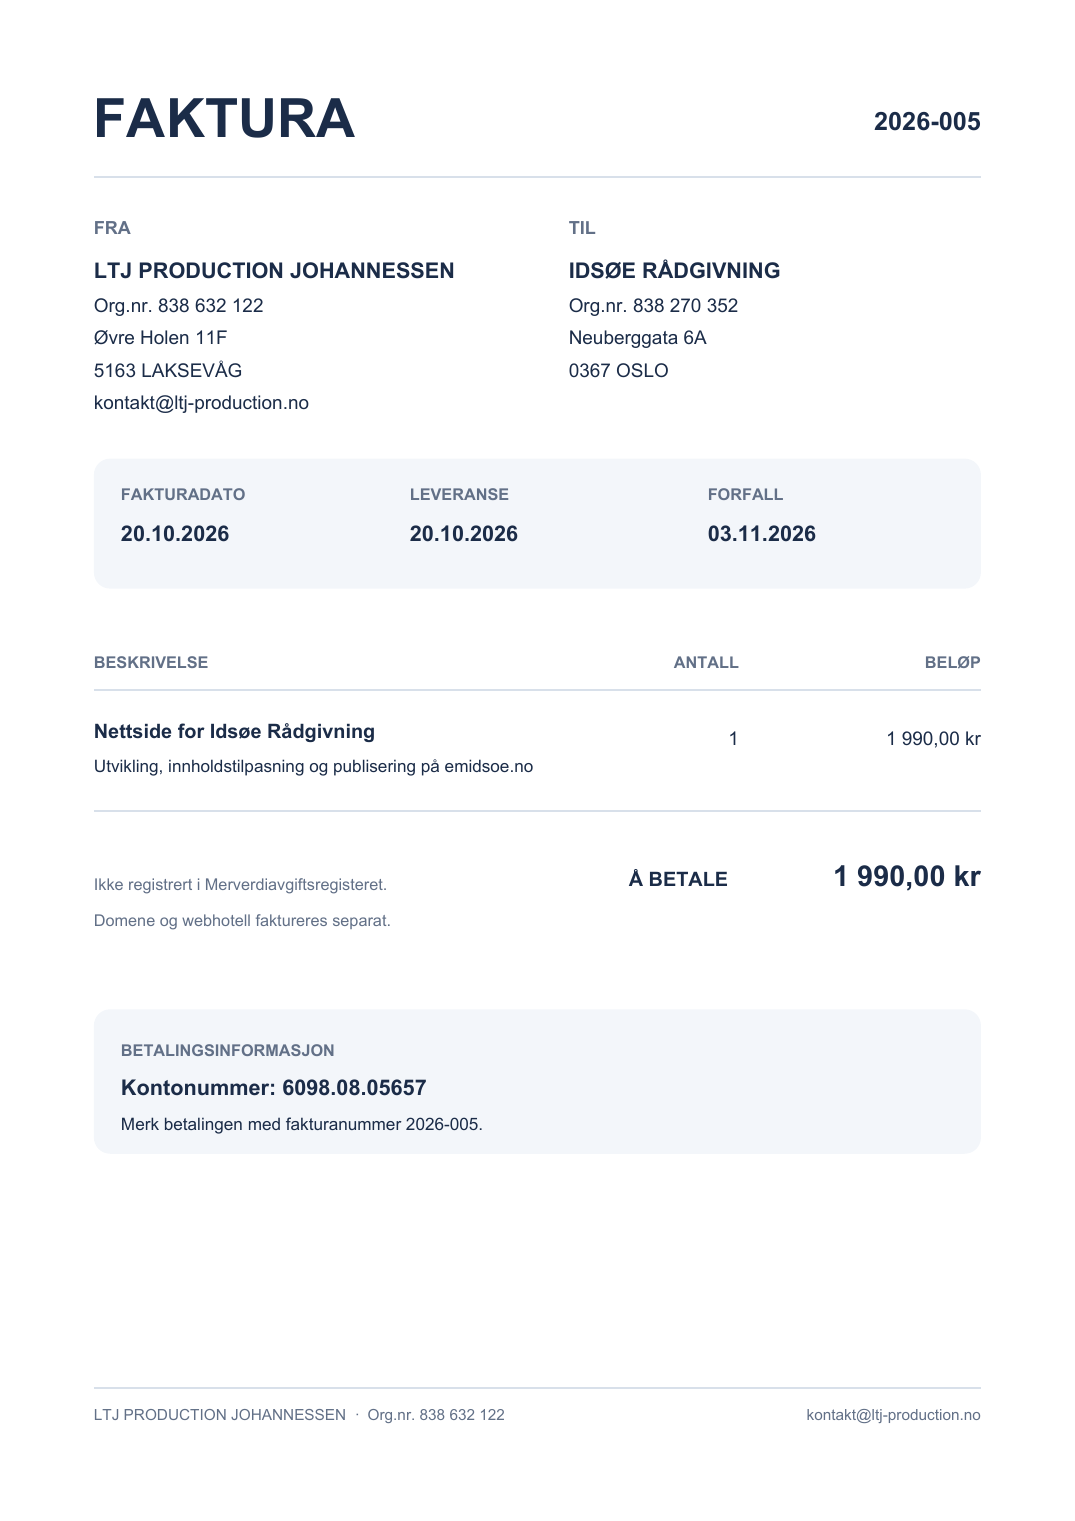
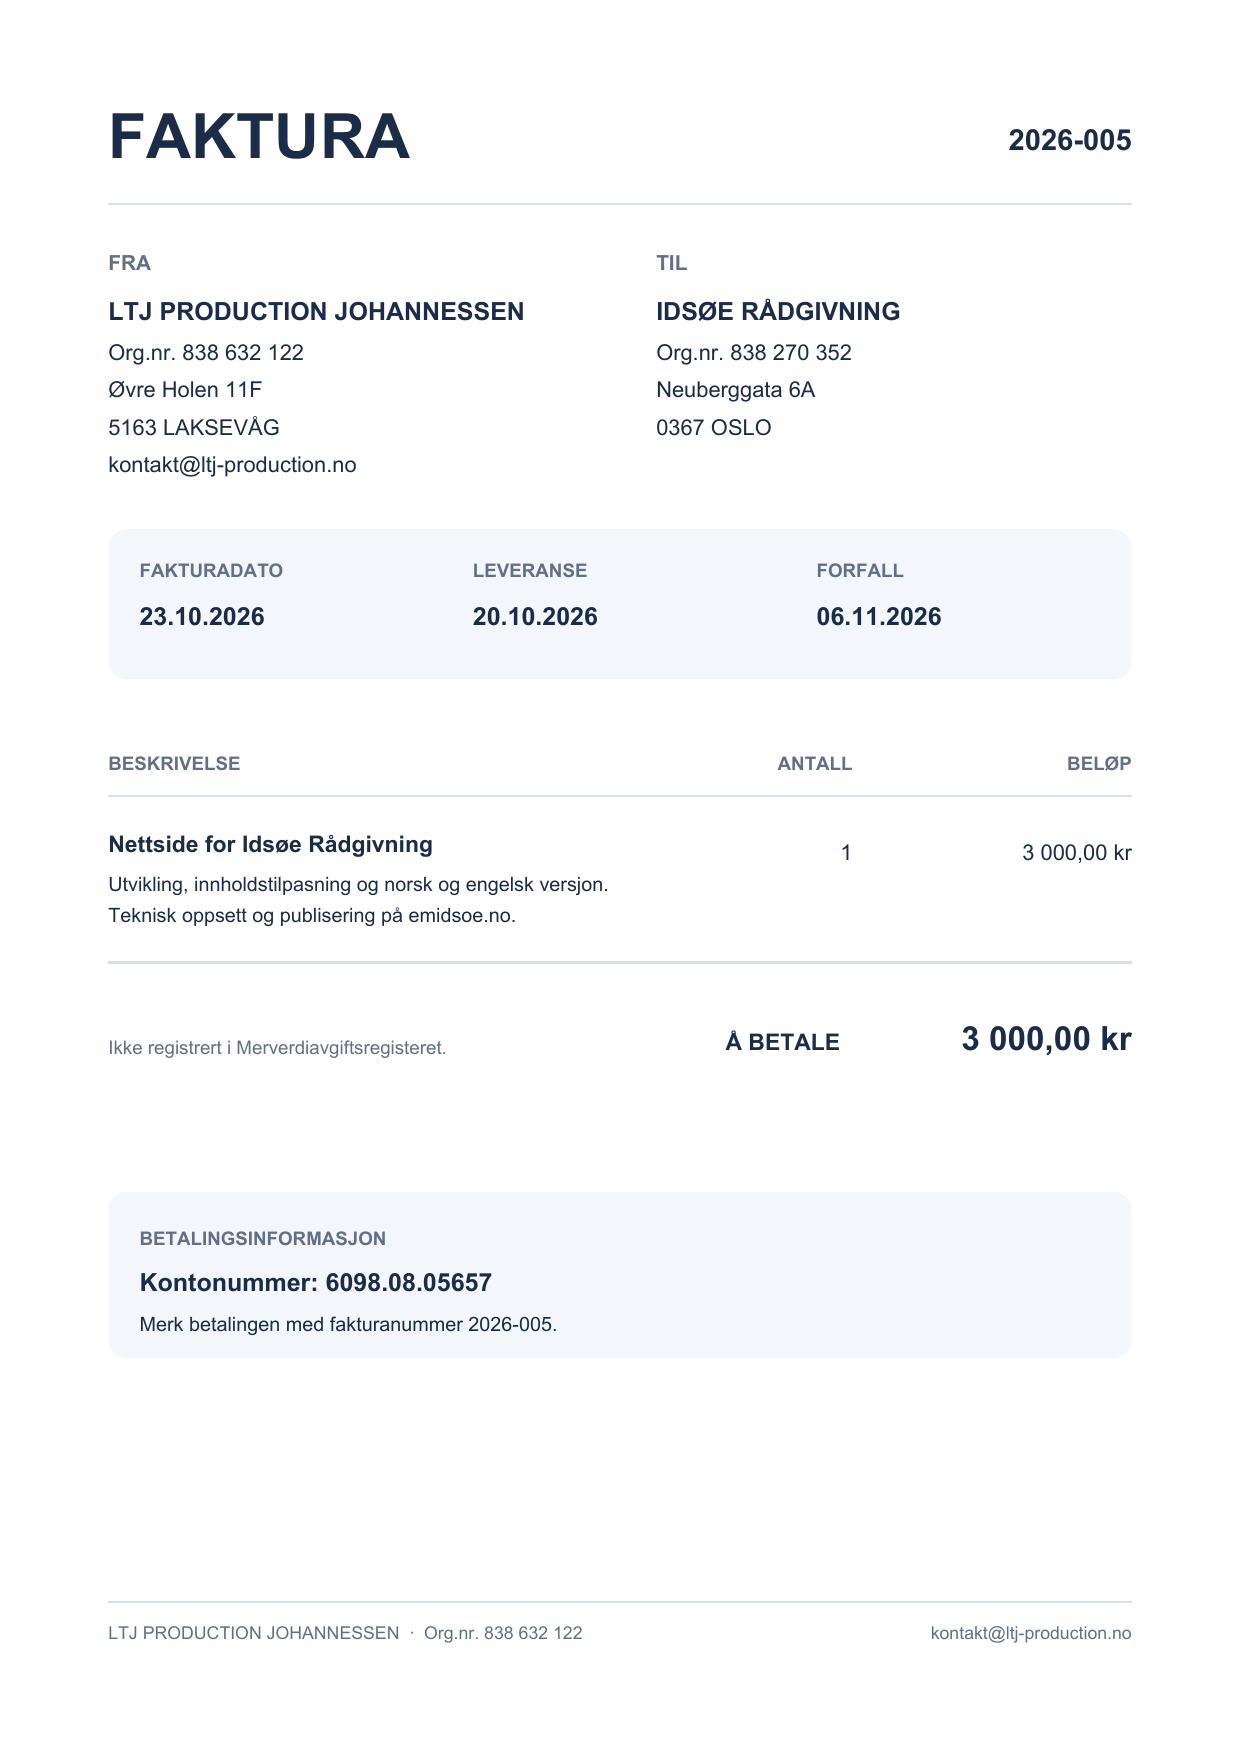
changes

diff --git a/frontend/src/components/crm-overview.tsx b/frontend/src/components/crm-overview.tsx
@@ -139,19 +139,20 @@ const projects: CrmProject[] = [
     address: "Neuberggata 6A, 0367 Oslo",
     proposalDate: "03.09.2026",
     dateLabel: "Henvendelse",
-    replyDate: "09.10.2026 kl. 15:45",
+    replyDate: "23.10.2026 kl. 13:48",
     deliveryConfirmedDate: "20.10.2026",
     deliveryComplete: true,
-    outreach: "Nettsiden overlevert – faktura klargjort, ikke sendt",
-    progress: "Lars bekreftet 20.10.2026 at Idsøe Rådgivning er overlevert på www.emidsoe.no. Nettsiden ligger på bestilt webhotell hos Domeneshop, ikke på GitHub Pages.",
-    nextStep: "Kontroller faktura 2026-005. Lars håndterer eventuell utsending selv. Ingen automatisk utsending eller purring.",
-    invoice: "Faktura 2026-005 klargjort · 1 990 kr · ikke sendt. Domene og webhotell separat.",
-    invoiceDraftNumber: "2026-005",
-    invoiceDraftDate: "20.10.2026",
-    invoiceAmount: 1990,
+    outreach: "Nettsiden overlevert – faktura sendt 23.10.2026",
+    progress: "Lars bekreftet 20.10.2026 at Idsøe Rådgivning er overlevert på www.emidsoe.no. Nettsiden ligger på bestilt webhotell hos Domeneshop. Ella fastsatte sluttbeløpet til 3 000 kr i e-post 23.10.2026, og Lars bekreftet samme dag at fakturaen er sendt.",
+    nextStep: "Avvent betaling på 3 000 kr innen 06.11.2026. Registrer betalingsdato først når innbetalingen er bekreftet. Ingen automatisk purring er planlagt.",
+    invoice: "Sendt · 3 000 kr · forfall 06.11.2026",
+    invoiceNumber: "2026-005",
+    invoiceDate: "23.10.2026",
+    invoiceDueDate: "06.11.2026",
+    invoiceAmount: 3000,
     agreement: "Ingen signert avtale registrert i CRM. Avklar eventuelle driftsvilkår separat.",
     agreementStatus: "required",
-    status: "delivered",
+    status: "payment",
   },
   {
     name: "Fiskerikandidat Gunnar Davidsson",

diff --git a/tmp/pdfs/create_invoice_2026_005_idsoe.py b/tmp/pdfs/create_invoice_2026_005_idsoe.py
@@ -1,7 +1,6 @@
-"""Create the next numbered invoice for Idsøe Rådgivning without sending it."""
+"""Create invoice 2026-005 for Idsøe Rådgivning without sending it."""
 
 from pathlib import Path
-import re
 
 from reportlab.lib import colors
 from reportlab.lib.pagesizes import A4
@@ -10,18 +9,8 @@ from reportlab.pdfgen import canvas
 
 ROOT = Path(__file__).resolve().parents[2]
 OUTPUT_DIR = ROOT / "output" / "pdf"
-numbers = []
-for path in OUTPUT_DIR.glob("faktura-2026-*.pdf"):
-    match = re.fullmatch(r"faktura-2026-(\d{3})-.*\.pdf", path.name)
-    if match:
-        numbers.append(int(match.group(1)))
-if sorted(numbers) != [1, 2, 3, 4]:
-    raise SystemExit(f"Unexpected invoice sequence: {sorted(numbers)}")
-
-number = f"2026-{max(numbers) + 1:03d}"
+number = "2026-005"
 destination = OUTPUT_DIR / f"faktura-{number}-idsoe-radgivning.pdf"
-if destination.exists():
-    raise SystemExit(f"Invoice already exists: {destination}")
 
 width, height = A4
 navy = colors.HexColor("#1b2c48")
@@ -69,9 +58,9 @@ box_y = height - 326
 c.setFillColor(light)
 c.roundRect(left, box_y, right_edge - left, 72, 9, fill=1, stroke=0)
 for x, label, value in [
-    (left + 15, "FAKTURADATO", "20.10.2026"),
+    (left + 15, "FAKTURADATO", "23.10.2026"),
     (left + 175, "LEVERANSE", "20.10.2026"),
-    (left + 340, "FORFALL", "03.11.2026"),
+    (left + 340, "FORFALL", "06.11.2026"),
 ]:
     t(x, box_y + 49, label, 9, True, muted)
     t(x, box_y + 26, value, 12, True)
@@ -83,16 +72,16 @@ right(right_edge, table_top, "BELØP", 9, True, muted)
 c.setStrokeColor(line)
 c.line(left, table_top - 12, right_edge, table_top - 12)
 t(left, table_top - 39, "Nettside for Idsøe Rådgivning", 11, True)
-t(left, table_top - 58, "Utvikling, innholdstilpasning og publisering på emidsoe.no", 9.5)
+t(left, table_top - 58, "Utvikling, innholdstilpasning og norsk og engelsk versjon.", 9.5)
+t(left, table_top - 73, "Teknisk oppsett og publisering på emidsoe.no.", 9.5)
 right(right_edge - 134, table_top - 43, "1")
-right(right_edge, table_top - 43, "1 990,00 kr")
-c.line(left, table_top - 79, right_edge, table_top - 79)
+right(right_edge, table_top - 43, "3 000,00 kr")
+c.line(left, table_top - 92, right_edge, table_top - 92)
 
-total_y = table_top - 121
+total_y = table_top - 134
 right(right_edge - 140, total_y, "Å BETALE", 11, True)
-right(right_edge, total_y, "1 990,00 kr", 16, True)
+right(right_edge, total_y, "3 000,00 kr", 16, True)
 t(left, total_y - 2, "Ikke registrert i Merverdiavgiftsregisteret.", 9, False, muted)
-t(left, total_y - 22, "Domene og webhotell faktureres separat.", 9, False, muted)
 
 payment_y = total_y - 120
 c.setFillColor(light)

diff --git a/output/fakturakontroll.md b/output/fakturakontroll.md
@@ -1,6 +1,6 @@
 # Fakturakontroll
 
-Oppdatert 20.10.2026. Status for 2026-001–2026-003 er bekreftet av Lars Johannessen 14.10.2026; betalingsdatoer er ikke oppgitt.
+Oppdatert 23.10.2026. Status for 2026-001–2026-003 er bekreftet av Lars Johannessen 14.10.2026; betalingsdatoer er ikke oppgitt.
 
 | Faktura | Kunde | Status |
 |---|---|---|
@@ -8,10 +8,10 @@ Oppdatert 20.10.2026. Status for 2026-001–2026-003 er bekreftet av Lars Johann
 | 2026-002 | Zagros Forlag og Oversettelse Eisa Bazdar | Sendt og betalt |
 | 2026-003 | Varneth Management Ness | Sendt og betalt |
 | 2026-004 | Fiskerikandidat Gunnar Davidsson | Sendt 14.10.2026, avventer betaling |
-| 2026-005 | Idsøe Rådgivning | Klargjort 20.10.2026, **ikke sendt** |
+| 2026-005 | Idsøe Rådgivning | Sendt 23.10.2026, avventer betaling |
 
 2026-004 gjelder utvikling, innholdstilpasning og publisering av nettside på davidsson.no. Fakturadato 14.10.2026, forfall 28.10.2026, beløp 1 990,00 kr til konto 6098.08.05657.
 
 Lars bekreftet 14.10.2026 at faktura 2026-004 er sendt. Ikke registrer betaling før innbetalingen er bekreftet.
 
-2026-005 gjelder utvikling, innholdstilpasning og publisering av nettsiden på emidsoe.no. Fakturadato og leveransedato 20.10.2026, forfall 03.11.2026, beløp 1 990,00 kr til konto 6098.08.05657. Domene og webhotell er separat og er ikke med i beløpet. PDF-en er bare klargjort lokalt; ingen utsending eller betaling er registrert.
+2026-005 gjelder utvikling, innholdstilpasning, norsk og engelsk versjon og publisering av nettsiden på emidsoe.no. Ella fastsatte sluttbeløpet til 3 000,00 kr i e-post 23.10.2026 etter at Lars foreslo den opprinnelige prisen på 1 990,00 kr. Fakturadato 23.10.2026, leveransedato 20.10.2026 og forfall 06.11.2026. Beløpet skal betales til konto 6098.08.05657. Lars bekreftet 23.10.2026 at fakturaen er sendt. Ikke registrer betaling før innbetalingen er bekreftet.
